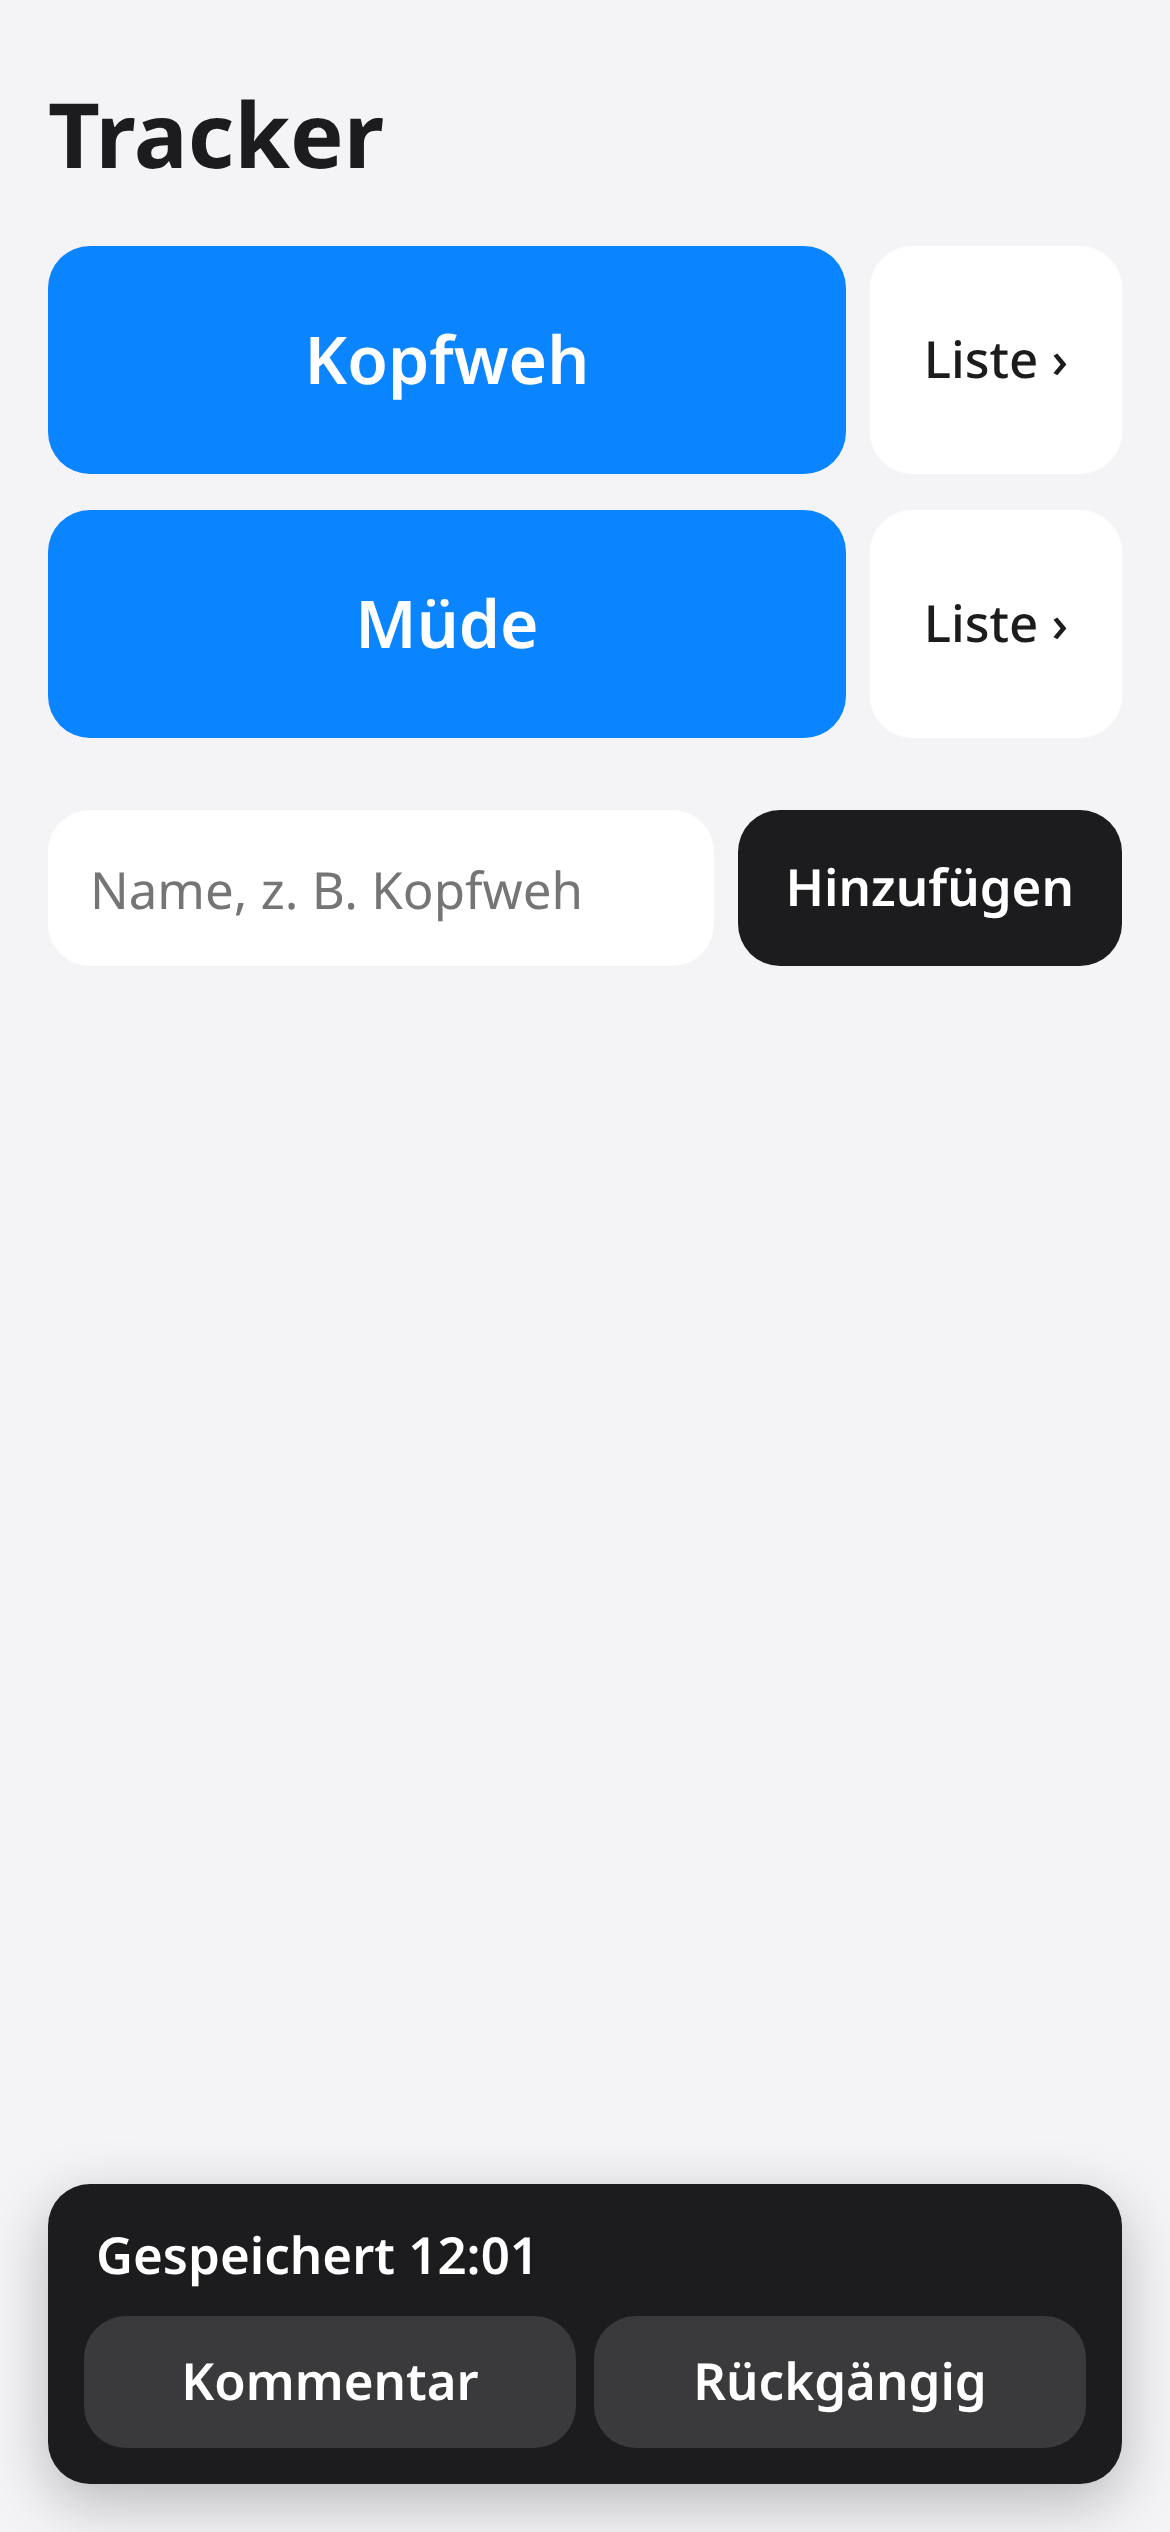
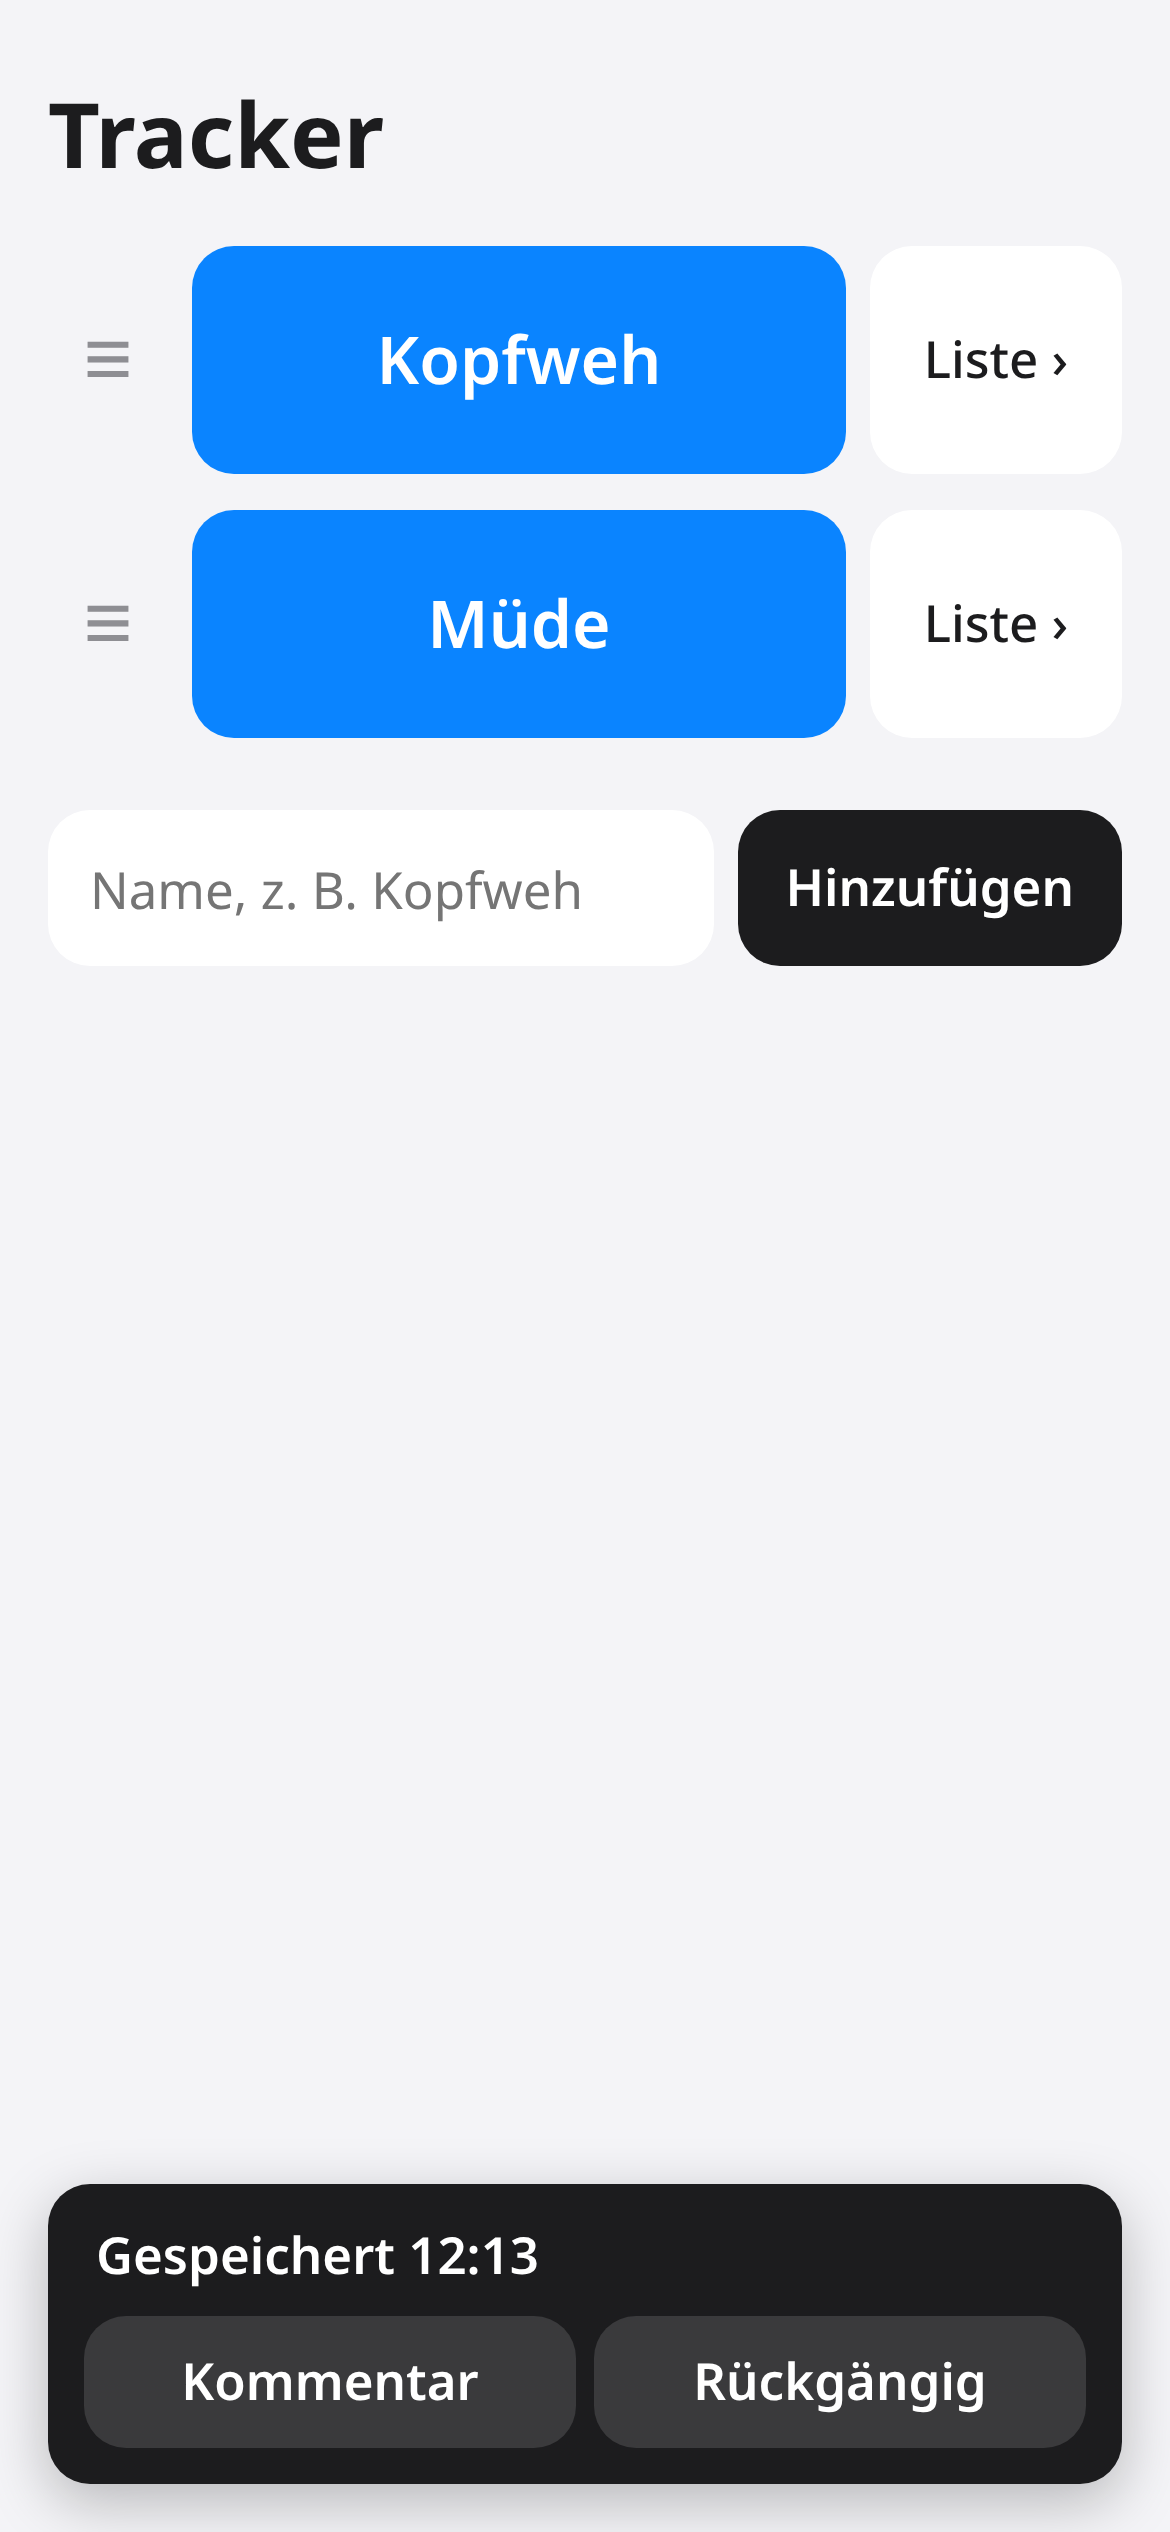
Buttons per Griff (≡) verschieben (Pointer Events); SW-Cache v4

diff --git a/app.js b/app.js
@@ -12,7 +12,8 @@ function render() {
   $('main').hidden = !!current; $('detail').hidden = !current;
   if (!current) {
     $('buttons').innerHTML = state.buttons.length ? state.buttons.map(b => `
-      <div class="row">
+      <div class="row" data-id="${b.id}">
+        <span class="handle" aria-label="Verschieben">≡</span>
         <button class="track" data-track="${b.id}">${esc(b.name)}</button>
         <button class="list" data-open="${b.id}" aria-label="Liste ${esc(b.name)}">Liste ›</button>
       </div>`).join('') : '<p class="hint">Noch keine Buttons. Lege unten deinen ersten an.</p>';
@@ -75,6 +76,30 @@ $('editor').addEventListener('close', () => {
     set(S.updateEntry(state, editing, { ts: S.fromInputValue($('edit-ts').value), note: $('edit-note').value }));
   $('editor').returnValue = '';
 });
+
+// Buttons per Griff (≡) verschieben – Pointer Events, funktioniert mit Finger und Maus.
+let drag = null;
+$('buttons').addEventListener('pointerdown', ev => {
+  const h = ev.target.closest('.handle'); if (!h) return;
+  ev.preventDefault();
+  const rows = [...$('buttons').children], row = h.parentElement, from = rows.indexOf(row);
+  drag = { row, rows, from, to: from, y: ev.clientY, step: rows[1] ? rows[1].offsetTop - rows[0].offsetTop : 0,
+    mids: rows.map(r => r.offsetTop + r.offsetHeight / 2) };
+  h.setPointerCapture(ev.pointerId); row.classList.add('dragging');
+});
+$('buttons').addEventListener('pointermove', ev => {
+  if (!drag) return;
+  const dy = ev.clientY - drag.y, c = drag.mids[drag.from] + dy;
+  drag.row.style.transform = `translateY(${dy}px)`;
+  drag.to = drag.mids.filter((m, i) => i !== drag.from && m < c).length;
+  drag.rows.forEach((r, i) => {
+    const shift = i > drag.from && i <= drag.to ? -1 : i < drag.from && i >= drag.to ? 1 : 0;
+    if (r !== drag.row) r.style.transform = shift ? `translateY(${shift * drag.step}px)` : '';
+  });
+});
+const drop = () => { if (!drag) return; const { row, to } = drag; drag = null; set(S.moveButton(state, row.dataset.id, to)); };
+$('buttons').addEventListener('pointerup', drop);
+$('buttons').addEventListener('pointercancel', drop);
 
 $('showtime').addEventListener('change', ev => set(S.setSetting(state, 'showTime', ev.target.checked)));
 

diff --git a/style.css b/style.css
@@ -4,7 +4,11 @@ body { margin: 0; font: 17px/1.4 -apple-system, system-ui, sans-serif; backgroun
 h1 { font-size: 30px; margin: 8px 0 16px; word-break: break-word; }
 button, input { font: inherit; border: 0; border-radius: 14px; }
 button { cursor: pointer; color: inherit; background: #fff; }
-.row { display: flex; gap: 8px; margin-bottom: 12px; }
+.row { display: flex; gap: 8px; margin-bottom: 12px; position: relative; transition: transform .15s; }
+.row.dragging { transition: none; z-index: 1; }
+.row.dragging .track { box-shadow: 0 10px 24px rgba(0,0,0,.3); }
+.handle { display: flex; align-items: center; justify-content: center; width: 40px; flex: none; font-size: 28px; color: #8e8e93;
+  touch-action: none; user-select: none; -webkit-user-select: none; -webkit-touch-callout: none; cursor: grab; }
 .track { flex: 1; min-height: 76px; font-size: 22px; font-weight: 600; background: #0a84ff; color: #fff; padding: 12px; transition: transform .1s; word-break: break-word; }
 .track:active { transform: scale(.97); }
 .track.flash { animation: flash .6s; }

diff --git a/test/store.test.js b/test/store.test.js
@@ -70,3 +70,16 @@ test('Einstellung und Datum ohne Uhrzeit, datetime-local', () => {
   assert.equal(S.fromInputValue('2026-10-17T11:20'), now);
   assert.ok(Number.isNaN(S.fromInputValue('')));
 });
+
+test('Buttons umsortieren', () => {
+  let s = S.emptyState();
+  for (const id of ['a', 'b', 'c', 'd']) s = S.addButton(s, id.toUpperCase(), id);
+  s = S.addEntry(s, 'a', now, 'e');
+  const order = st => st.buttons.map(b => b.id).join('');
+  assert.equal(order(S.moveButton(s, 'a', 2)), 'bcad');
+  assert.equal(order(S.moveButton(s, 'd', 0)), 'dabc');
+  assert.equal(order(S.moveButton(s, 'b', 99)), 'acdb');
+  assert.equal(order(S.moveButton(s, 'c', -5)), 'cabd');
+  assert.equal(S.moveButton(s, 'x', 0), s);
+  assert.deepEqual(S.moveButton(s, 'a', 3).entries, s.entries);
+});

diff --git a/sw.js b/sw.js
@@ -1,5 +1,5 @@
 // Offline: erst Netz (am Browser-Cache vorbei, damit Updates sofort ankommen), bei Fehler aus dem Cache. Daten liegen in localStorage, nicht hier.
-const CACHE = 'tracker-v3';
+const CACHE = 'tracker-v4';
 const FILES = ['./', 'index.html', 'style.css', 'app.js', 'store.js', 'manifest.json', 'icons/icon-180.png', 'icons/icon-512.png'];
 self.addEventListener('install', e => { e.waitUntil(caches.open(CACHE).then(c => c.addAll(FILES))); self.skipWaiting(); });
 self.addEventListener('activate', e => e.waitUntil(caches.keys().then(ks => Promise.all(ks.filter(k => k !== CACHE).map(k => caches.delete(k)))).then(() => self.clients.claim())));

diff --git a/store.js b/store.js
@@ -25,6 +25,14 @@ export function removeButton(s, id) {
   return { ...s, buttons: s.buttons.filter(b => b.id !== id), entries: s.entries.filter(e => e.buttonId !== id) };
 }
 
+export function moveButton(s, id, to) {
+  const from = s.buttons.findIndex(b => b.id === id);
+  if (from < 0) return s;
+  const buttons = [...s.buttons], [b] = buttons.splice(from, 1);
+  buttons.splice(Math.max(0, Math.min(to, buttons.length)), 0, b);
+  return { ...s, buttons };
+}
+
 export function addEntry(s, buttonId, ts = Date.now(), id = uid()) {
   return { ...s, entries: [...s.entries, { id, buttonId, ts, note: '' }] };
 }

diff --git a/test/e2e_drag.py b/test/e2e_drag.py
@@ -1,0 +1,59 @@
+# Browser-Test: Buttons per Finger am Griff (≡) verschieben. Echte Touch-Events über CDP.
+# Lokal: python3 -m http.server 8765 &  python test/e2e_drag.py   |  Live: python test/e2e_drag.py <URL> <Ordner>
+from playwright.sync_api import sync_playwright, expect
+import sys, os, json, time
+URL = sys.argv[1] if len(sys.argv) > 1 else 'http://localhost:8765/'
+SHOTS = sys.argv[2] if len(sys.argv) > 2 else 'screenshots'
+os.makedirs(SHOTS, exist_ok=True)
+with sync_playwright() as p:
+    b = p.chromium.launch()
+    ctx = b.new_context(viewport={'width': 390, 'height': 844}, device_scale_factor=3, is_mobile=True, has_touch=True, locale='de-DE')
+    pg = ctx.new_page(); errors = []
+    pg.on('pageerror', lambda e: errors.append(str(e)))
+    pg.on('console', lambda m: m.type == 'error' and errors.append(m.text))
+    cdp = ctx.new_cdp_session(pg)
+    touch = lambda t, x=0, y=0: cdp.send('Input.dispatchTouchEvent', {'type': t, 'touchPoints': [] if t == 'touchEnd' else [{'x': x, 'y': y}]})
+    names = lambda: pg.locator('.track').all_inner_texts()
+    stored = lambda: json.loads(pg.evaluate("localStorage.getItem('tracker-v1')"))
+
+    pg.goto(URL); pg.evaluate('localStorage.clear()'); pg.reload()
+    for n in ['Kopfweh', 'Müde', 'Schwindel', 'Übelkeit']:
+        pg.fill('#name', n); pg.click('#add button')
+    pg.screenshot(path=f'{SHOTS}/08-main-mit-griffen.png')
+
+    # Kopfweh am Griff nach unten zwischen Schwindel und Übelkeit ziehen
+    h = pg.locator('.row', has_text='Kopfweh').locator('.handle').bounding_box()
+    target = pg.locator('.row', has_text='Schwindel').bounding_box()
+    x, y0 = h['x'] + h['width'] / 2, h['y'] + h['height'] / 2
+    y1 = target['y'] + target['height'] / 2 + 10
+    touch('touchStart', x, y0)
+    for i in range(1, 21):
+        touch('touchMove', x, y0 + (y1 - y0) * i / 20); time.sleep(0.02)
+        if i == 14: time.sleep(0.2); pg.screenshot(path=f'{SHOTS}/09-main-beim-ziehen.png')
+    time.sleep(0.2); touch('touchEnd')
+    expect(pg.locator('.track')).to_have_text(['Müde', 'Schwindel', 'Kopfweh', 'Übelkeit'])
+    assert [x['name'] for x in stored()['buttons']] == ['Müde', 'Schwindel', 'Kopfweh', 'Übelkeit']
+    assert stored()['entries'] == [], 'Ziehen darf keinen Eintrag erzeugen'
+
+    # Nach oben ziehen: Übelkeit an Position 1
+    h = pg.locator('.row', has_text='Übelkeit').locator('.handle').bounding_box()
+    first = pg.locator('.row').first.bounding_box()
+    x, y0 = h['x'] + h['width'] / 2, h['y'] + h['height'] / 2
+    touch('touchStart', x, y0)
+    for i in range(1, 16): touch('touchMove', x, y0 + (first['y'] + 5 - y0) * i / 15); time.sleep(0.02)
+    touch('touchEnd')
+    expect(pg.locator('.track')).to_have_text(['Übelkeit', 'Müde', 'Schwindel', 'Kopfweh'])
+
+    pg.reload()
+    expect(pg.locator('.track')).to_have_text(['Übelkeit', 'Müde', 'Schwindel', 'Kopfweh'])
+    assert not pg.locator('.row[style*=transform]').count()
+
+    # Normaler Tipp auf den großen Button speichert weiterhin
+    pg.locator('.track', has_text='Kopfweh').tap()
+    expect(pg.locator('#toast-text')).to_contain_text('Gespeichert')
+    e = stored()['entries']; kid = next(b['id'] for b in stored()['buttons'] if b['name'] == 'Kopfweh')
+    assert len(e) == 1 and e[0]['buttonId'] == kid, e
+    time.sleep(0.4); pg.screenshot(path=f'{SHOTS}/10-main-nach-umsortieren.png')
+    assert not errors, errors
+    print('DRAG E2E OK', URL)
+    b.close()

diff --git a/README.md b/README.md
@@ -5,5 +5,5 @@ Daten bleiben nur im Browser des Geräts (localStorage). Kein Server, keine Kont
 
 - Lokal starten: `python3 -m http.server 8765` im Ordner, dann http://localhost:8765/ öffnen
 - Datenlogik testen: `npm test` (node --test)
-- Browser-Test: Server starten, dann `python test/e2e.py [URL] [Screenshot-Ordner]` (benötigt `pip install playwright && playwright install chromium`)
+- Browser-Tests: Server starten, dann `python test/e2e.py [URL] [Screenshot-Ordner]` und `python test/e2e_drag.py [URL] [Screenshot-Ordner]` (benötigt `pip install playwright && playwright install chromium`)
 - iPhone: muss über HTTPS gehostet sein (z. B. GitHub Pages), dann in Safari „Teilen › Zum Home-Bildschirm“.
